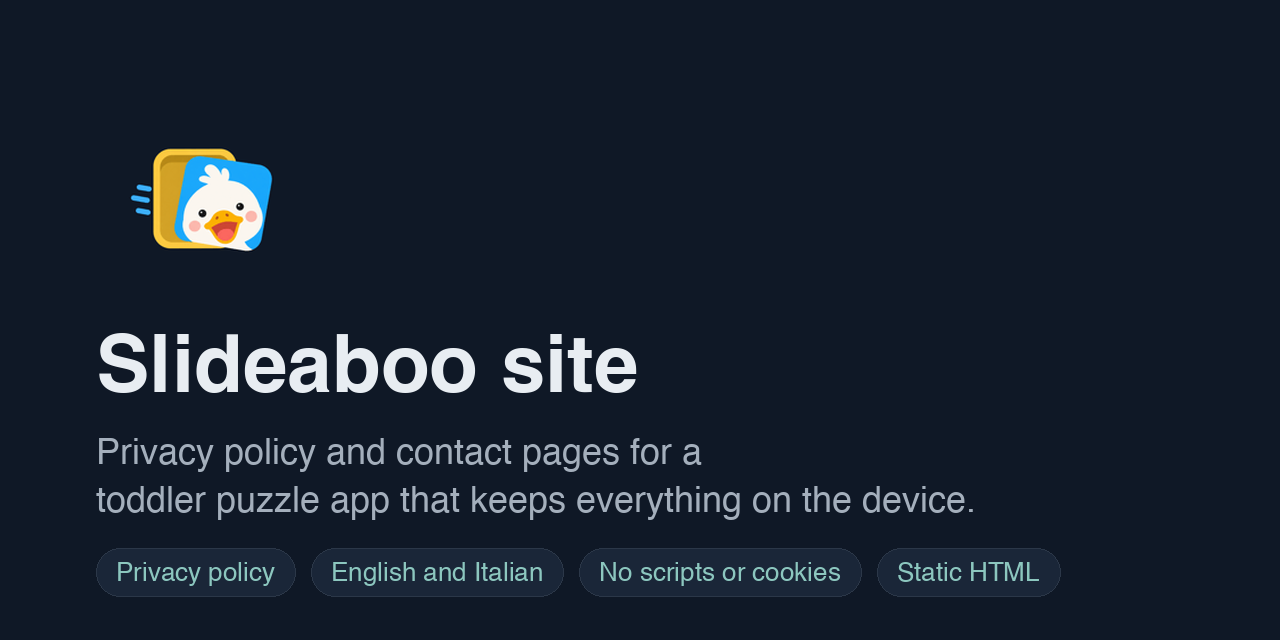
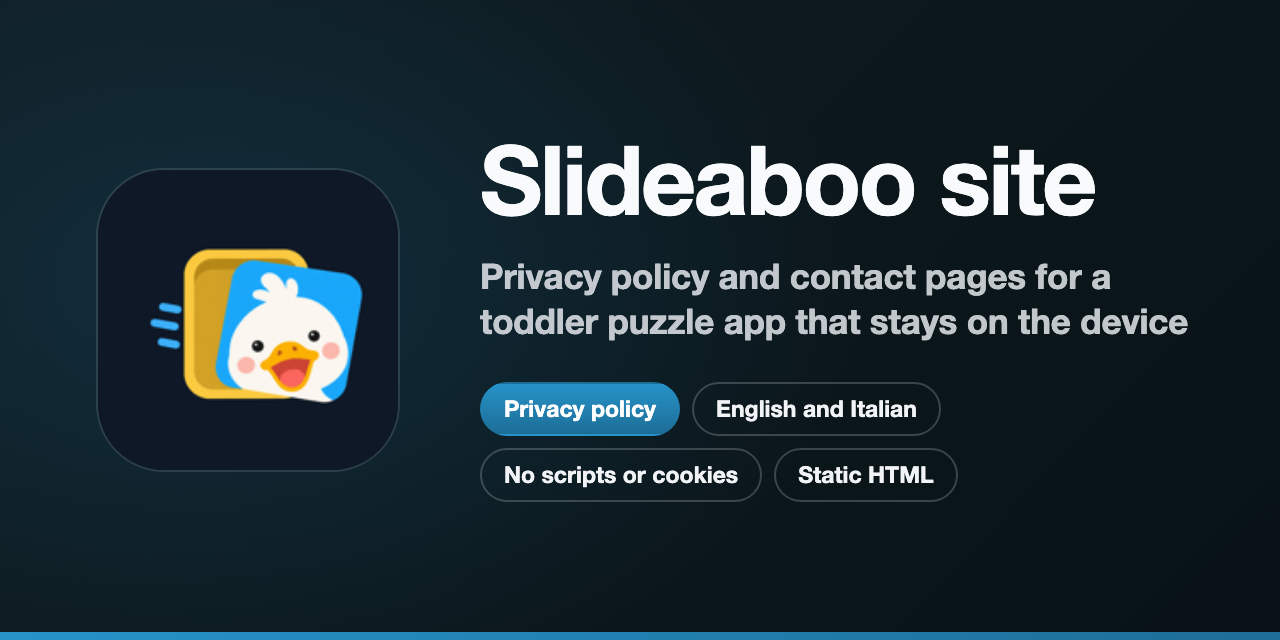
docs: draw the social preview with the shared brand layout
The preview keeps the app's own icon and now uses the shared layout. tools/brand/brand_kit.py replaces the old per-site Pillow script.

diff --git a/tools/brand/brand_kit.py b/tools/brand/brand_kit.py
@@ -1,0 +1,91 @@
+#!/usr/bin/env python3
+"""Draw the 1280x640 social preview in the shared layout: icon tile left, name, tagline,
+3 to 4 chips, a hue stripe along the bottom.
+
+  python3 tools/brand/brand_kit.py social --name NAME --tagline TEXT --chip A --chip B \
+      --icon ICON.png --hue 170 --out docs/assets/social-preview.png
+
+The icon is the project's own (PNG or SVG). Pick --hue from the icon's main colour.
+Needs headless Google Chrome (set CHROME= if it is elsewhere) and Pillow.
+Rendering is deterministic and the PNG carries no metadata.
+"""
+import argparse, colorsys, html, os, pathlib, subprocess, sys, tempfile
+from PIL import Image
+
+CHROME = os.environ.get("CHROME", "/Applications/Google Chrome.app/Contents/MacOS/Google Chrome")
+INK = "#F8FAFC"
+
+# ---- colour -----------------------------------------------------------------
+def _lum(rgb):
+    f = lambda c: c / 12.92 if c <= .03928 else ((c + .055) / 1.055) ** 2.4
+    r, g, b = (f(c) for c in rgb)
+    return .2126 * r + .7152 * g + .0722 * b
+def _hex(h, s, l):
+    r, g, b = colorsys.hls_to_rgb(h / 360, l, s)
+    return "#%02X%02X%02X" % (round(r * 255), round(g * 255), round(b * 255)), (r, g, b)
+def _contrast(rgb):  # against near-white ink
+    return (_lum((.97, .98, .99)) + .05) / (_lum(rgb) + .05)
+def palette(hue):
+    """(top, bottom, mid) hex. Same saturation, lightness 54/40; yellows and greens are
+    darkened just enough that the white glyph keeps 3.2:1 (top) and 4.5:1 (bottom)."""
+    s, lt, lb = .68, .55, .41
+    while _contrast(_hex(hue, s, lt)[1]) < 3.2 and lt > .30: lt -= .01
+    while _contrast(_hex(hue, s, lb)[1]) < 4.5 and lb > .20: lb -= .01
+    lb = min(lb, lt - .12)
+    return _hex(hue, s, lt)[0], _hex(hue, s, lb)[0], _hex(hue, s, (lt + lb) / 2)[0]
+def dark_bg(hue):
+    return _hex(hue, .38, .10)[0], _hex(hue, .45, .06)[0]
+
+# ---- rendering --------------------------------------------------------------
+def render(html_doc, w, h, out, transparent=False):
+    with tempfile.TemporaryDirectory() as td:
+        p = pathlib.Path(td) / "p.html"
+        p.write_text(html_doc)
+        shot = pathlib.Path(td) / "s.png"
+        cmd = [CHROME, "--headless=new", "--disable-gpu", "--hide-scrollbars", "--no-sandbox",
+               "--force-device-scale-factor=1", f"--window-size={w},{h}",
+               "--virtual-time-budget=3000", f"--screenshot={shot}", f"file://{p}"]
+        if transparent: cmd.insert(2, "--default-background-color=00000000")
+        subprocess.run(cmd, check=True, capture_output=True)
+        im = Image.open(shot).convert("RGBA" if transparent else "RGB")
+    # fresh image = no metadata chunks
+    clean = Image.new(im.mode, im.size); clean.paste(im)
+    pathlib.Path(out).parent.mkdir(parents=True, exist_ok=True)
+    clean.save(out, optimize=True)
+    return clean
+
+def make_social(name, tagline, chips, icon_svg_path, hue, out_png):
+    """1280x640, tile left, name, tagline, chips, hue stripe. Same layout for every repo."""
+    top, bot, mid = palette(hue); d1, d2 = dark_bg(hue)
+    chips = list(chips)[:4]
+    chip_html = "".join(f'<span class="c{" f" if i == 0 else ""}">{html.escape(c)}</span>' for i, c in enumerate(chips))
+    doc = f'''<!doctype html><meta charset=utf-8><style>
+*{{box-sizing:border-box;margin:0}}
+body{{width:1280px;height:640px;overflow:hidden;font-family:"Helvetica Neue",Helvetica,Arial,sans-serif;color:{INK};
+ background:radial-gradient(900px 600px at 18% 45%,{mid}33,transparent 70%),linear-gradient(135deg,{d1},{d2});position:relative}}
+.tile{{position:absolute;left:98px;top:170px;width:300px;height:300px;border-radius:22%;box-shadow:0 0 0 2px #ffffff1f}}
+.txt{{position:absolute;left:480px;top:0;width:740px;height:632px;display:flex;flex-direction:column;justify-content:center}}
+h1{{font-weight:800;letter-spacing:-.025em;line-height:1.02;white-space:nowrap;font-size:96px;margin-bottom:26px}}
+h1.wrap{{white-space:normal;font-size:68px;overflow-wrap:anywhere}}
+p{{font-size:35px;line-height:1.28;font-weight:600;color:#E3E6EBd9;margin-bottom:38px;letter-spacing:-.005em}}
+.chips{{display:flex;gap:12px;flex-wrap:wrap}}
+.c{{font-weight:700;font-size:23px;padding:11px 22px;border-radius:99px;border:2px solid #ffffff33;color:#F1F3F6}}
+.c.f{{background:linear-gradient(180deg,{top},{bot});border-color:transparent;color:#fff}}
+.bar{{position:absolute;left:0;right:0;bottom:0;height:8px;background:linear-gradient(90deg,{top},{bot})}}
+</style><img class=tile src="file://{pathlib.Path(icon_svg_path).resolve()}">
+<div class=txt><h1 id=n>{html.escape(name)}</h1><p>{html.escape(tagline)}</p><div class=chips>{chip_html}</div></div><div class=bar></div>
+<script>const h=document.getElementById('n');let s=96;while(h.scrollWidth>740&&s>60){{s-=2;h.style.fontSize=s+'px'}}
+if(h.scrollWidth>740){{h.className='wrap';h.innerHTML=h.textContent.replace(/-/g,'-<wbr>')}}</script>'''
+    return render(doc, 1280, 640, out_png)
+
+def main(argv=None):
+    ap = argparse.ArgumentParser(description=__doc__, formatter_class=argparse.RawDescriptionHelpFormatter)
+    sub = ap.add_subparsers(dest="cmd", required=True)
+    b = sub.add_parser("social"); b.add_argument("--name", required=True); b.add_argument("--tagline", required=True)
+    b.add_argument("--chip", action="append", default=[]); b.add_argument("--icon", required=True)
+    b.add_argument("--hue", type=int, required=True); b.add_argument("--out", default="docs/assets/social-preview.png")
+    n = ap.parse_args(argv)
+    make_social(n.name, n.tagline, n.chip, n.icon, n.hue, n.out)
+
+if __name__ == "__main__":
+    sys.exit(main())

diff --git a/README.md b/README.md
@@ -161,7 +161,7 @@ slideaboo-site/
 ├── assets/                # 🎨 site.css and the app icon in three sizes
 ├── docs/                  # 📚 setup, how it works, FAQ, troubleshooting
 │   └── assets/            # 🖼 diagram, screenshots, social preview
-├── tools/                 # 🔧 check_site.py, gen_diagram.py, screenshots/
+├── tools/                 # 🔧 check_site.py, gen_diagram.py, brand/, screenshots/
 ├── .github/workflows/     # 🤖 ci.yml runs make check
 ├── Makefile               # ⚙ check, serve, diagram, screenshots, social
 ├── llms.txt               # 🤖 the site in one plain-text page for search tools

diff --git a/docs/setup.md b/docs/setup.md
@@ -56,9 +56,9 @@ the live page afterwards at `https://caputodavide93.github.io/slideaboo-site/`.
 
 ```bash
 make screenshots   # docs/assets/screenshots/
-make social        # docs/assets/social-preview.png
+make social        # docs/assets/social-preview.png, drawn by tools/brand/brand_kit.py from the site icon
 make diagram       # docs/assets/architecture-{light,dark}.svg
 ```
 
-The first two need network access once to install Playwright and download
+`make screenshots` needs network access once to install Playwright and download
 Chromium. The contact page is never photographed: it shows the support address.
